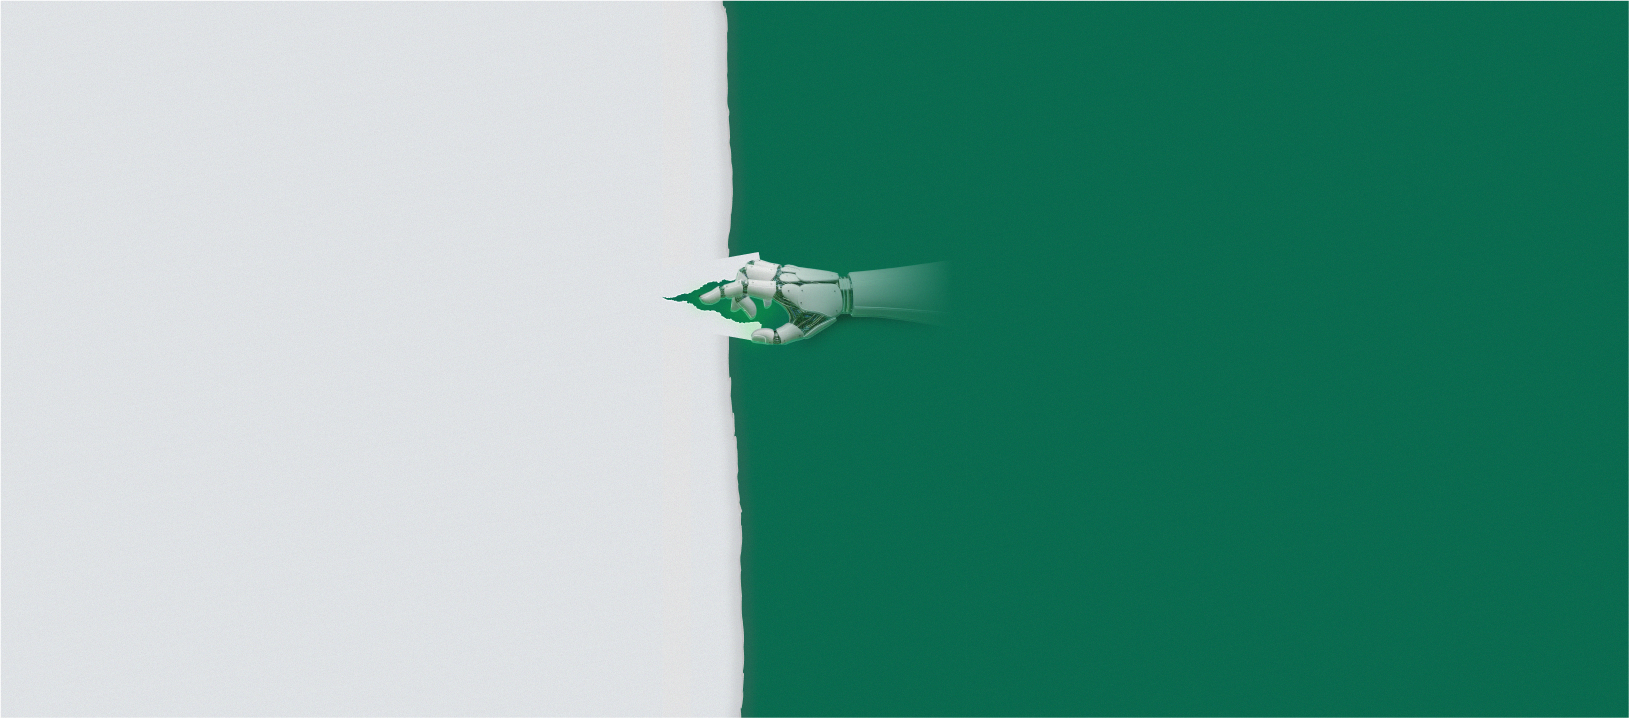
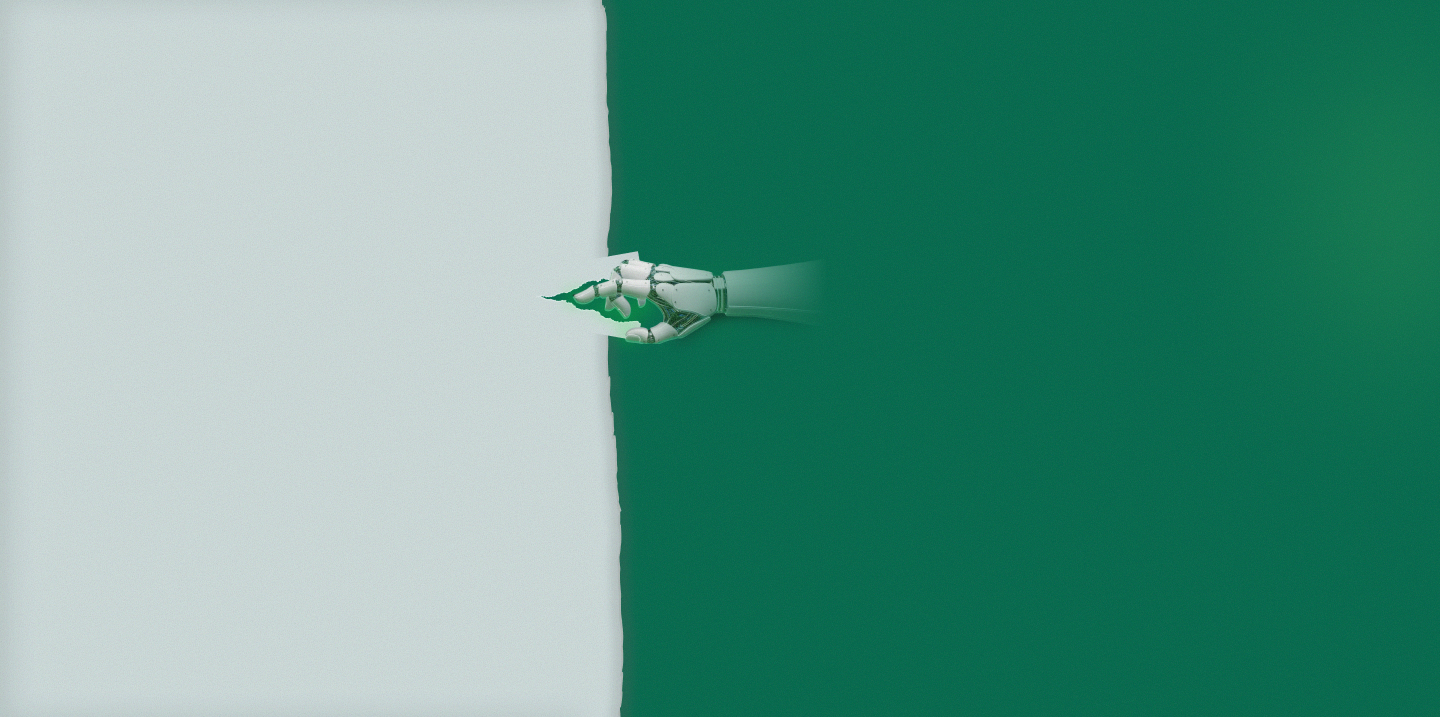
feat: update various components for improved layout and styling, including About sections, job cards, and forms

Changed region(s): [[0.0, 0.0, 0.5625, 1.0]]

diff --git a/src/features/about/components/AboutVisionSection.tsx b/src/features/about/components/AboutVisionSection.tsx
@@ -18,23 +18,23 @@ export default function AboutVisionSection({
     <section className="sm:my-14 sm:py-16 bg-background">
       <div className="layout-shell">
         <div className="layout-content">
-          <div className="grid grid-cols-1 gap-10 px-4 sm:gap-12 sm:px-6 lg:grid-cols-2 items-center justify-center lg:gap-16 lg:px-0">
-            <div>
+          <div className="grid grid-cols-1 gap-10 px-4 sm:gap-12 sm:px-6 lg:grid-cols-3 items-center justify-between lg:gap-16 lg:px-0">
+            <div className="lg:col-span-2">
               <div className="mb-2">
                 <SectionTitle sectionTitle="Our Vision" textColor="text-dark" />
               </div>
 
-              <h2 className="text-secondary my-4 text-3xl leading-tight font-bold sm:text-4xl lg:text-5xl">
+              <h2 className="text-secondary my-7 text-3xl leading-tight font-bold sm:text-4xl lg:text-5xl">
                 {title}
               </h2>
 
-              <p className="text-muted-foreground mb-8 max-w-xl text-left text-sm whitespace-pre-line sm:text-xl lg:text-justify">
+              <p className="text-muted-foreground my-7 max-w-4xl text-left text-sm whitespace-pre-line sm:text-xl lg:text-justify">
                 {description}
               </p>
             </div>
 
-            <div className="relative mx-auto flex w-full max-w-[340px] justify-center sm:max-w-[520px] lg:max-w-none">
-              <div className="relative h-[380px] w-[300px] overflow-hidden rounded-[30px] sm:h-[460px] sm:w-[380px] sm:rounded-[40px]">
+            <div className="relative mx-auto flex w-full max-w-[340px] justify-end sm:max-w-[520px] lg:max-w-none lg:col-span-1">
+              <div className="relative h-[380px] w-[300px] overflow-hidden rounded-[30px] sm:h-[486px] sm:w-[380px] sm:rounded-[40px]">
                 <Image
                   src={primaryImage?.image ?? "/assets/about/doctor2.jpg"}
                   alt={primaryImage?.alt ?? "Vision image"}
@@ -52,6 +52,25 @@ export default function AboutVisionSection({
                 />
               </div>
             </div>
+            {/* <div className="flex w-full max-w-[340px] justify-end sm:max-w-[520px] lg:max-w-none lg:col-span-1">
+              <div className="relative h-[380px] w-[300px]  rounded-[30px] sm:h-[460px] sm:w-[380px] sm:rounded-[40px] bg-red-200">
+                <Image
+                  src={primaryImage?.image ?? "/assets/about/doctor2.jpg"}
+                  alt={primaryImage?.alt ?? "Mission image"}
+                  fill
+                  className="object-cover rounded-[30px]"
+                />
+                <div className="absolute top-24 -left-1/2 lg:-left-2/3 translate-x-1/2 h-[210px] w-[170px] overflow-hidden  rounded-[22px] border-8 border-white shadow-xl sm:top-40 sm:h-[260px] sm:w-[220px] sm:rounded-[30px] sm:border-16">
+                  <Image
+                    src={secondaryImage?.image ?? "/assets/about/doctor1.jpg"}
+                    alt={secondaryImage?.alt ?? "Mission image"}
+                    fill
+                    className="object-cover"
+                  />
+                </div>
+              </div>
+
+            </div> */}
           </div>
         </div>
       </div>

diff --git a/src/features/auth/components/register-employer-content/FormCandidateRegister.tsx b/src/features/auth/components/register-employer-content/FormCandidateRegister.tsx
@@ -26,8 +26,12 @@ const OTHER_JOB_TITLE_VALUE = "__other__";
 
 const FormCandidateRegister = () => {
   const [isModalOpen, setIsModalOpen] = useState(false);
+  const [countrySearchCurrent, setCountrySearchCurrent] = useState("");
+  const [countrySearch, setCountrySearch] = useState("");
+
   const { jobTitles, isLoading, error, hasNextPage, fetchNextPage, isFetchingNextPage } = useGetJobTitles();
-  const { countries, hasNextPage: countryHasNextPage, fetchNextPage: countryFetchNextPage, isFetchingNextPage: countryIsFetchingNextPage } = useGetCountries();
+  const { countries: currentCountries, hasNextPage: currentCountryHasNextPage, fetchNextPage: currentCountryFetchNextPage, isFetchingNextPage: currentCountryIsFetchingNextPage } = useGetCountries(countrySearchCurrent);
+  const { countries, hasNextPage: countryHasNextPage, fetchNextPage: countryFetchNextPage, isFetchingNextPage: countryIsFetchingNextPage } = useGetCountries(countrySearch);
 
   const {
     register,
@@ -169,6 +173,7 @@ const FormCandidateRegister = () => {
             id="jobTitle"
             label="Job Title"
             withSearchInput={true}
+            onSearchChange={setCountrySearch}
             placeholder="ex: Hospital"
             {...field}
             error={errors.jobTitle?.message ?? (error instanceof Error ? error.message : undefined)}
@@ -205,17 +210,18 @@ const FormCandidateRegister = () => {
             render={({ field }) => (
               <SelectInputField
                 withSearchInput
+                onSearchChange={setCountrySearchCurrent}
                 id="country"
                 placeholder="country"
                 {...field}
-                options={countries.map((c) => ({
+                options={currentCountries.map((c) => ({
                   label: c.name,
                   value: String(c.id),
                 }))}
                 error={errors.country?.message}
-                onReachEnd={() => countryFetchNextPage()}
-                hasNextPage={!!countryHasNextPage}
-                isFetchingNextPage={countryIsFetchingNextPage}
+                onReachEnd={() => currentCountryFetchNextPage()}
+                hasNextPage={!!currentCountryHasNextPage}
+                isFetchingNextPage={currentCountryIsFetchingNextPage}
               />
             )}
           />
@@ -297,6 +303,8 @@ const FormCandidateRegister = () => {
               control={control}
               render={({ field }) => (
                 <SelectInputField
+                  withSearchInput
+                  onSearchChange={setCountrySearch}
                   label="Country"
                   id="specificCountry"
                   placeholder="ex: United Arab Emirates (UAE)"

diff --git a/src/features/about/components/AboutMissionSection.tsx b/src/features/about/components/AboutMissionSection.tsx
@@ -22,33 +22,33 @@ export default function AboutMissionSection({
             <SectionTitle sectionTitle="Our Mission" textColor="text-dark" />
           </div>
 
-          <h2 className="text-secondary my-4 text-3xl leading-tight font-bold sm:text-4xl lg:mb-2 lg:text-5xl">
+          <h2 className="text-secondary my-7 text-3xl leading-tight font-bold sm:text-4xl lg:mb-2 lg:text-5xl">
             {title}
           </h2>
 
-          <p className="text-muted-foreground mb-8 text-left text-sm  sm:text-xl lg:text-justify">
+          <p className="text-muted-foreground my-7 text-left text-sm  sm:text-xl lg:text-justify">
             {description}
           </p>
         </div>
 
-        <div className="flex w-full max-w-[340px] justify-end sm:max-w-[520px] lg:max-w-none lg:col-span-1">
-          <div className="relative h-[380px] w-[300px]  rounded-[30px] sm:h-[460px] sm:w-[380px] sm:rounded-[40px] bg-red-200">
+        <div className="relative mx-auto flex w-full max-w-[340px] justify-end sm:max-w-[520px] lg:max-w-none lg:col-span-1">
+          <div className="relative h-[380px] w-[300px] overflow-hidden rounded-[30px] sm:h-[486px] sm:w-[380px] sm:rounded-[40px]">
             <Image
-              src={primaryImage?.image ?? "/assets/about/doctor2.jpg"}
-              alt={primaryImage?.alt ?? "Mission image"}
+              src={secondaryImage?.image ?? "/assets/about/doctor2.jpg"}
+              alt={secondaryImage?.alt ?? "Mission image"}
               fill
-              className="object-cover rounded-[30px]"
+              className="object-cover"
             />
-            <div className="absolute top-24 -left-1/2 lg:-left-2/3 translate-x-1/2 h-[210px] w-[170px] overflow-hidden  rounded-[22px] border-8 border-white shadow-xl sm:top-40 sm:h-[260px] sm:w-[220px] sm:rounded-[30px] sm:border-16">
-              <Image
-                src={secondaryImage?.image ?? "/assets/about/doctor1.jpg"}
-                alt={secondaryImage?.alt ?? "Mission image"}
-                fill
-                className="object-cover"
-              />
-            </div>
           </div>
 
+          <div className="absolute top-28 left-0 h-[210px] w-[170px] overflow-hidden rounded-[22px] border-8 border-white shadow-xl sm:top-40 sm:h-[260px] sm:w-[220px] sm:rounded-[30px] sm:border-16">
+            <Image
+              src={secondaryImage?.image ?? "/assets/about/doctor1.jpg"}
+              alt={secondaryImage?.alt ?? "Mission image"}
+              fill
+              className="object-cover"
+            />
+          </div>
         </div>
       </div>
     </section>

diff --git a/src/features/about/components/AboutHeroSection.tsx b/src/features/about/components/AboutHeroSection.tsx
@@ -27,17 +27,17 @@ export default async function AboutHeroSection({
       <div className="layout-shell ">
         <div className="layout-content">
 
-          <div className="grid grid-cols-1 gap-10 px-4 sm:gap-12 sm:px-6 lg:grid-cols-2">
-            <div>
+          <div className="grid grid-cols-1 gap-10  sm:gap-12  lg:grid-cols-3">
+            <div className="lg:col-span-2">
               <div className="mb-2">
                 <SectionTitle sectionTitle="About JooCare" textColor="text-dark" />
               </div>
 
-              <h2 className="text-secondary mb-3 text-3xl leading-tight font-bold sm:text-3xl lg:mb-2 lg:text-4xl">
+              <h2 className="text-secondary max-w-lg mb-3 text-3xl leading-tight font-bold sm:text-3xl lg:mb-2 lg:text-4xl">
                 {title}
               </h2>
 
-              <p className="mb-8 max-w-xl text-left text-sm leading-relaxed whitespace-pre-line text-gray-600 sm:text-base lg:text-justify">
+              <p className="mb-8 max-w-4xl text-left text-sm leading-relaxed whitespace-pre-line text-gray-600 sm:text-base lg:text-justify">
                 {description}
               </p>
 
@@ -53,8 +53,8 @@ export default async function AboutHeroSection({
               </div>
             </div>
 
-            <div className="relative mx-auto flex w-full max-w-[340px] justify-center sm:max-w-[520px] lg:max-w-none">
-              <div className="relative h-[380px] w-[300px] overflow-hidden rounded-[30px] sm:h-[460px] sm:w-[380px] sm:rounded-[40px]">
+            <div className="relative mx-auto flex w-full max-w-[340px] justify-end sm:max-w-[520px] lg:max-w-none lg:col-span-1">
+              <div className="relative h-[380px] w-[300px] overflow-hidden rounded-[30px] sm:h-[500px] sm:w-[380px] sm:rounded-[40px]">
                 <Image
                   src={primaryImage?.image ?? "/assets/about/doctor2.jpg"}
                   alt={primaryImage?.alt ?? "About image"}
@@ -79,7 +79,7 @@ export default async function AboutHeroSection({
           </div>
 
           {/* setting impact */}
-          <div className="w-full grid grid-cols-2 lg:grid-cols-4 gap-4">
+          <div className="w-full grid grid-cols-2 lg:grid-cols-4 gap-4 mt-6">
             <div className="flex flex-col items-center justify-center p-8 text-center transition-all ">
               <span className="text-foreground flex items-center gap-2 text-2xl font-bold md:text-4xl ">
                 <Plus

diff --git a/src/features/jobs/components/candidate/CandidateJobCard.tsx b/src/features/jobs/components/candidate/CandidateJobCard.tsx
@@ -64,7 +64,7 @@ export default function CandidateJobCard({
   const plainText = stripHtml(excerpt || "");
   const shortText = truncateText(plainText, 70);
   return (
-    <Card>
+    <Card className="group hover:border-primary">
       <CardHeader className="flex gap-2 max-lg:px-2">
         <Image
           width={52}
@@ -75,7 +75,7 @@ export default function CandidateJobCard({
 
         />
         <div className="flex grow flex-col gap-1">
-          <h6 className="text-secondary text-lg font-semibold">
+          <h6 className="text-secondary text-lg font-semibold group-hover:text-primary">
             {title}
           </h6>
           <p className="text-foreground text-md font-normal">{company}</p>
@@ -134,12 +134,13 @@ export default function CandidateJobCard({
                 jobId={job.id}
                 initialIsSaved={job.is_saved}
                 onSavedChange={onSavedChange}
+                className="bg-muted"
               />
             ) : null}
             <Button
               variant="outline"
               size="pill"
-              className="border-border text-muted-foreground h-9 px-4 py-2 text-sm"
+              className="border-border text-muted-foreground h-9 px-4 py-2 text-sm bg-muted"
               onClick={() => void shareJob()}
             >
               <Share /> Share

diff --git a/src/features/jobs/components/candidate/ToggleSavedJobButton.tsx b/src/features/jobs/components/candidate/ToggleSavedJobButton.tsx
@@ -44,11 +44,10 @@ export default function ToggleSavedJobButton({
           size="icon"
           disabled={isPending}
           onClick={toggleSaved}
-          className={`h-13 w-13 rounded-[4px] p-4 ${
-            isSaved
+          className={`h-13 w-13 rounded-[4px] p-4 ${isSaved
               ? "bg-primary text-white hover:bg-primary/90"
               : "bg-accent text-primary"
-          } ${className}`}
+            } ${className}`}
           aria-pressed={isSaved}
           aria-label={isSaved ? "Unsave job" : "Save job"}
         >
@@ -70,11 +69,10 @@ export default function ToggleSavedJobButton({
         size="pill"
         disabled={isPending}
         onClick={toggleSaved}
-        className={`border-border h-9 px-4 py-2 text-sm ${
-          isSaved
+        className={`border-border h-9 px-4 py-2 text-sm ${isSaved
             ? "bg-accent text-primary hover:bg-accent/90"
             : "text-muted-foreground"
-        } ${className}`}
+          } ${className}`}
         aria-pressed={isSaved}
       >
         <Bookmark fill={isSaved ? "currentColor" : "none"} />

diff --git a/src/features/jobs/components/JobCard.tsx b/src/features/jobs/components/JobCard.tsx
@@ -119,7 +119,7 @@ export default function JobCard({ resumeMatch,
 
   return (
     <>
-      <Card className="max-lg:py-2">
+      <Card className="max-lg:py-2 group hover:border-primary">
         <CardHeader className="flex gap-2 max-lg:px-2">
           <Image
             width={52}
@@ -129,7 +129,7 @@ export default function JobCard({ resumeMatch,
             className="rounded-2xl w-14 h-12"
           />
           <div className="flex grow flex-col gap-1">
-            <h6 className="text-secondary text-lg font-semibold">
+            <h6 className="text-secondary text-lg font-semibold group-hover:text-primary">
               {title}
             </h6>
             <p className="text-foreground text-md font-normal">{company}</p>

diff --git a/src/features/candidate-profile/components/about/EditAboutModal.tsx b/src/features/candidate-profile/components/about/EditAboutModal.tsx
@@ -95,9 +95,7 @@ export function EditAboutModal({
             </DialogTitle>
           </DialogHeader>
           <DialogDescription className="text-muted-foreground -mt-2 text-sm">
-            You can write about your years of experience, industry, or skills.
-            People also talk about their achievements or previous job
-            experiences
+            Share a brief professional summary highlighting your experience, areas of expertise, key skills, and notable achievements. This helps employers understand your background at a glance.
           </DialogDescription>
 
           <Textarea

diff --git a/src/app/globals.css b/src/app/globals.css
@@ -54,6 +54,7 @@
   --color-soft-overlay: var(--soft-overlay);
   --color-body-bg: var(--body-bg);
   --bg-primary-gradient: var(--primary-gradient);
+  --color-card-hover: var(--card-hover);
 }
 
 /* ════════════════════════════════════════
@@ -120,6 +121,7 @@
 
   --shadow-soft: #0000000d;
   --primary-gradient: linear-gradient(270deg, #038661, #013a2a);
+  --card-hover: rgb(199, 225, 200);
 }
 
 /* ════════════════════════════════════════

diff --git a/src/features/home/components/JobCard.tsx b/src/features/home/components/JobCard.tsx
@@ -13,7 +13,7 @@ interface JobProps {
 }
 
 const JobCard = ({ title, company, location, type, timeLabel, id, image, updated_at }: JobProps) => (
-  <Link href={`/jobs/${id}`} className="group bg-card group border border-white hover:border-primary/50 relative rounded-xl p-5 transition-all shadow-sm">
+  <Link href={`/jobs/${id}`} className="group bg-card  border border-white hover:border-primary/50 relative rounded-xl p-5 transition-all shadow-sm">
     <section className="flex items-start gap-4">
       <Image
         src={image || "/assets/recent-job-image.svg"}

diff --git a/src/features/shared-company-profile/components/JobsSections.tsx b/src/features/shared-company-profile/components/JobsSections.tsx
@@ -27,7 +27,7 @@ export default function JobsSections({
   return (
     <div className="mt-4 flex flex-col gap-4 rounded-2xl border bg-white p-4">
       <div className="flex items-center justify-between">
-        <h3 className="text-xl font-semibold">Jobs from {companyName}</h3>
+        <h3 className="text-xl font-semibold">More Jobs</h3>
       </div>
 
       {jobsError ? (

diff --git a/src/features/contact/ContactForm.tsx b/src/features/contact/ContactForm.tsx
@@ -127,10 +127,10 @@ export default function ContactForm({
 
   return (
     <div className="h-full">
-      <SectionTitle sectionTitle="REQUEST FOR DEMO" />
+      <SectionTitle sectionTitle="Share Your Thoughts" />
 
       <h2 className="text-secondary my-4 text-2xl font-bold">
-        Send your message
+        Tell us how we can help
       </h2>
 
       <form
